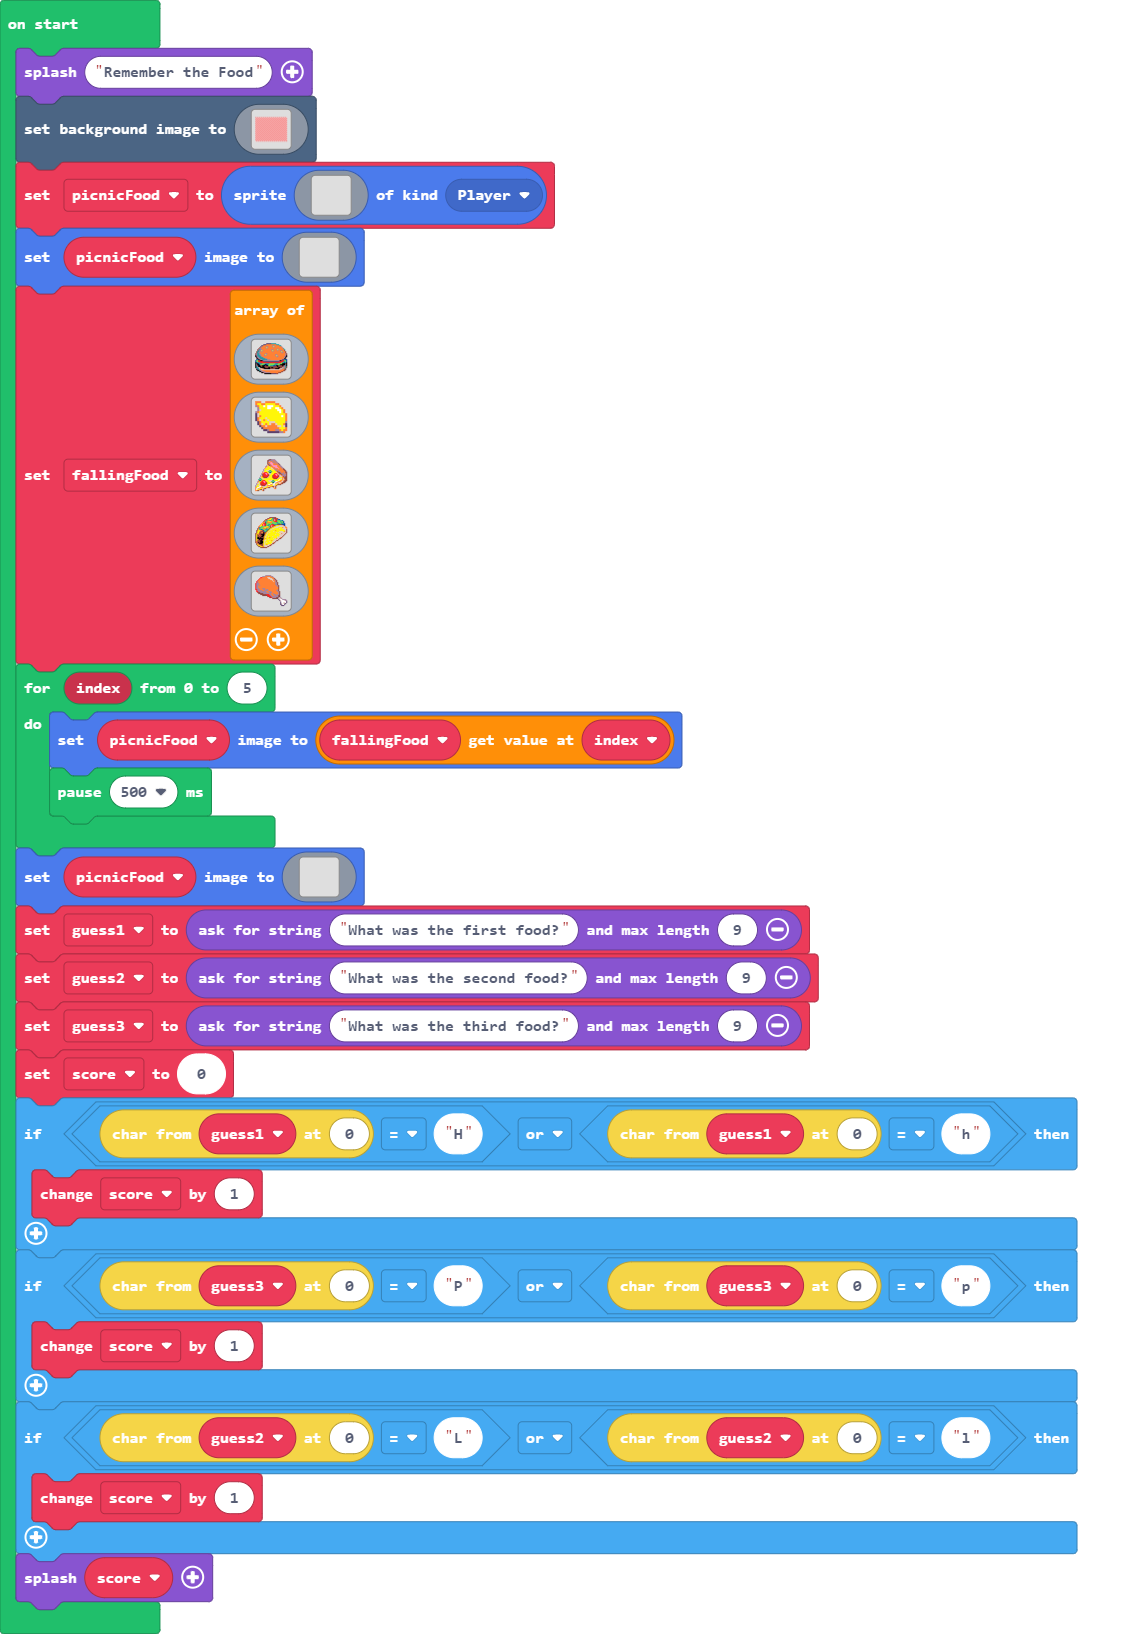
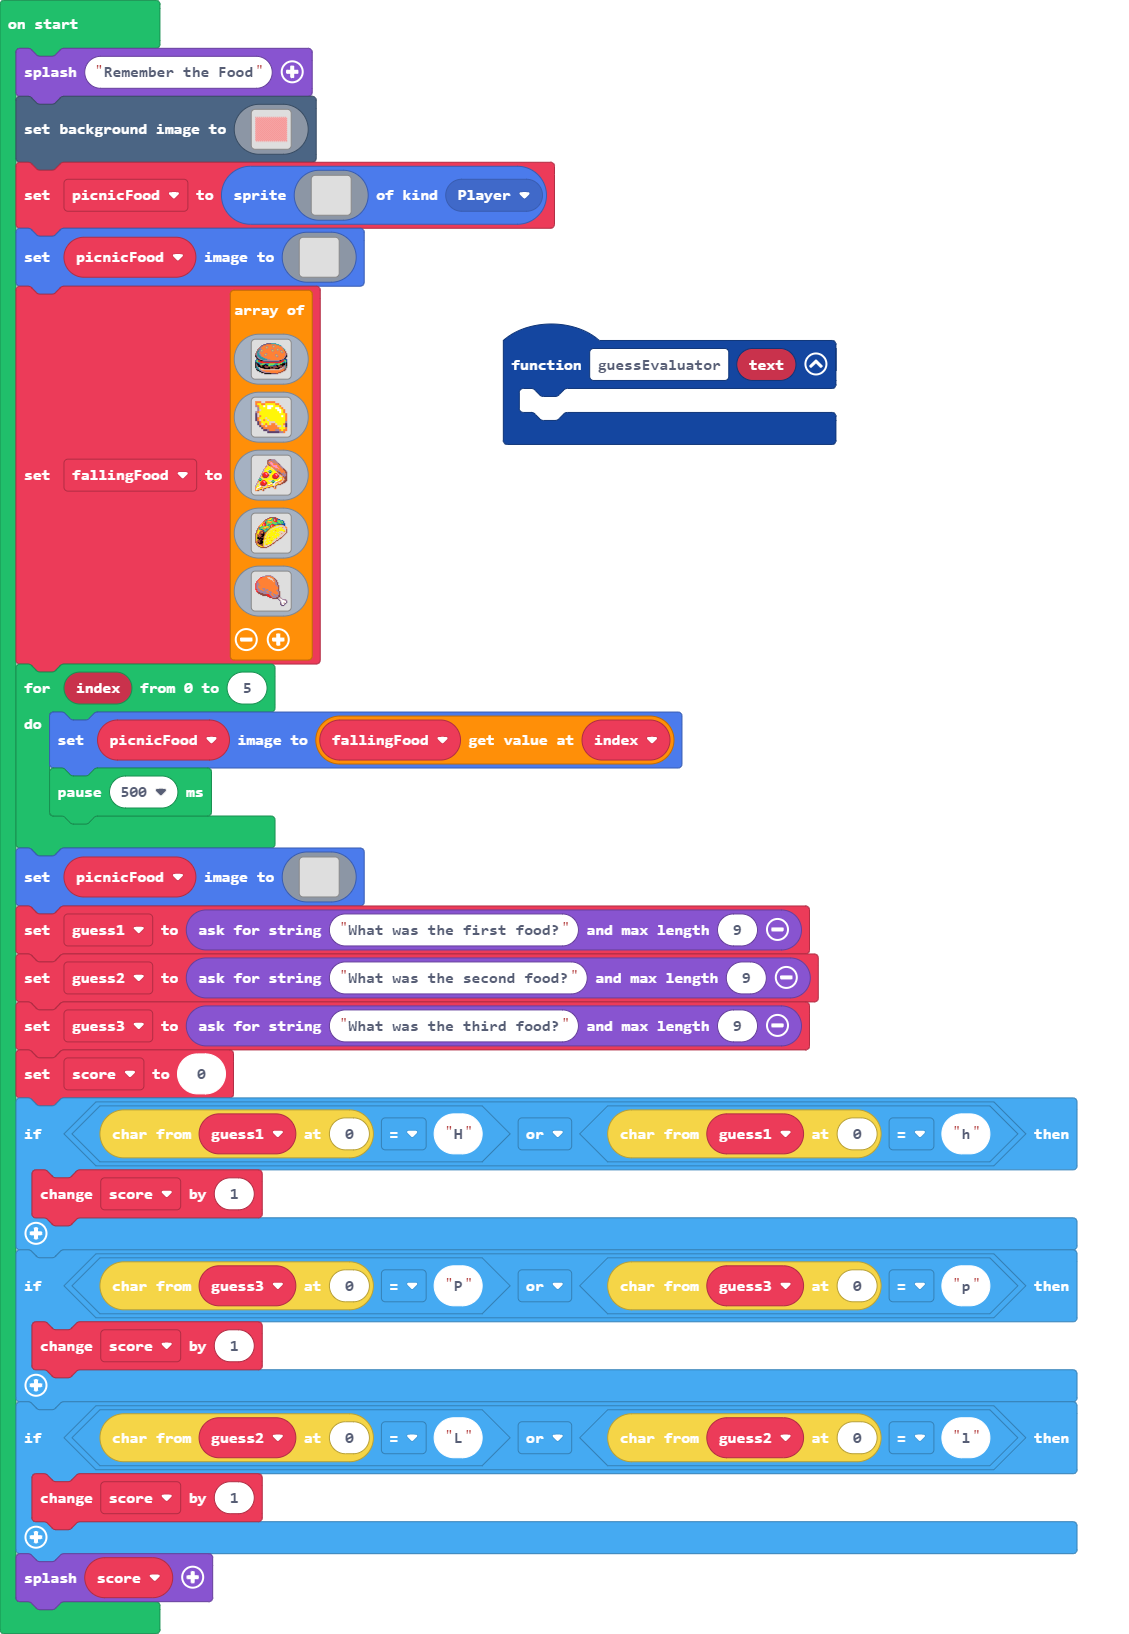
Update main.blocks, main.ts

Changed region(s): [[0.434, 0.1873, 0.744, 0.2809]]

diff --git a/main.ts b/main.ts
@@ -1,3 +1,6 @@
+function guessEvaluator (text: string) {
+	
+}
 game.splash("Remember the Food")
 scene.setBackgroundImage(img`
     2222211111222221111122222111112222211111222221111122222111112222211111222221111122222111112222211111222221111122222111112222211111222221111122222111112222211111
